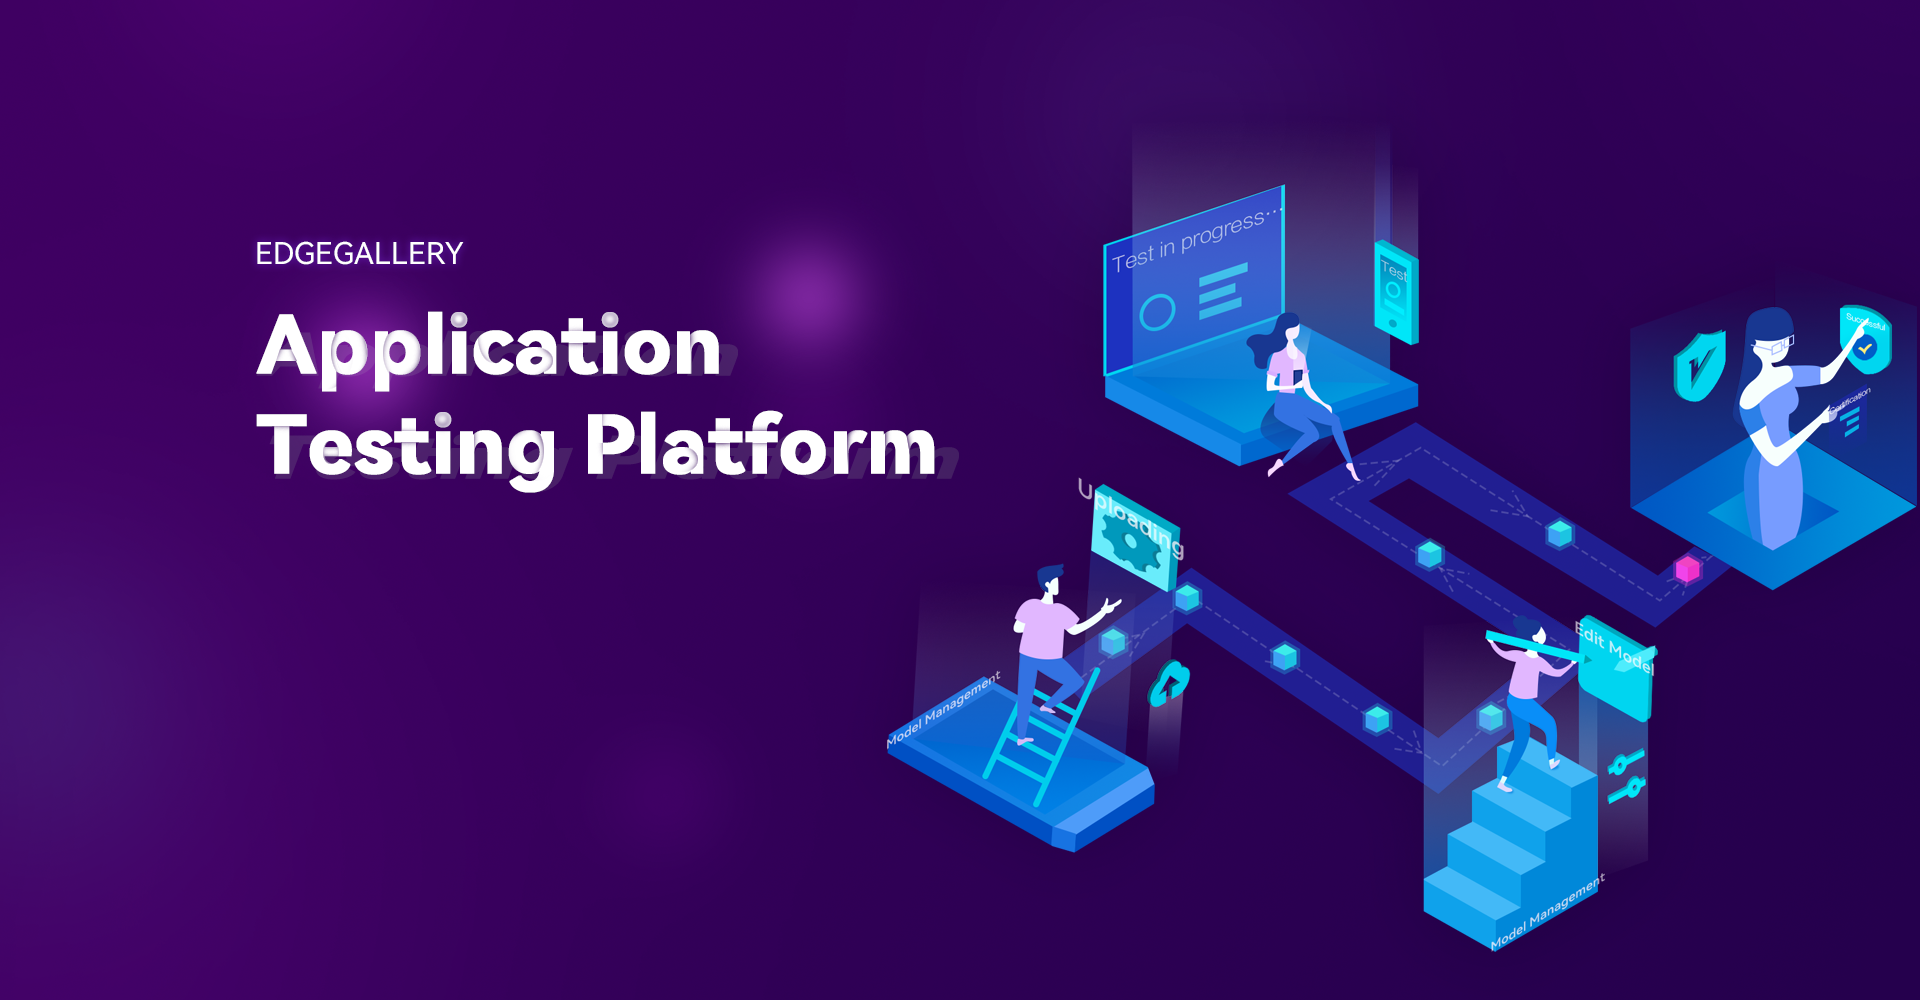
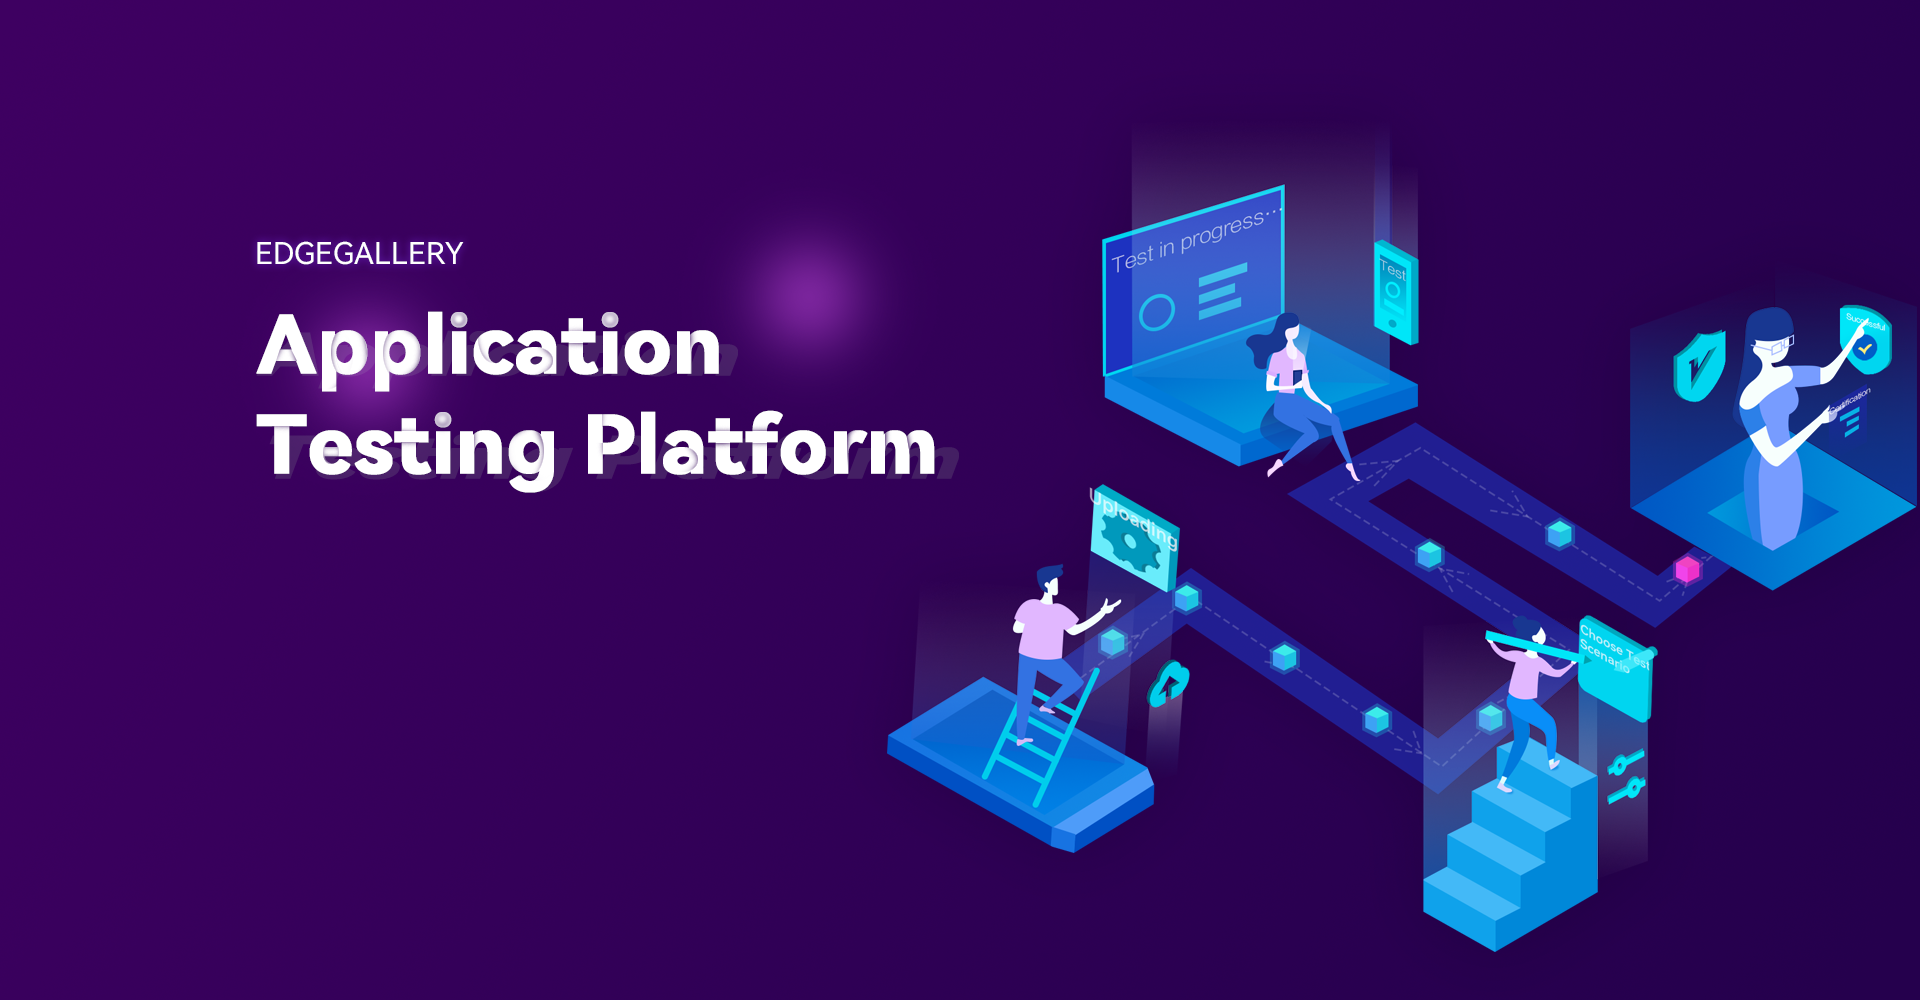
替换首页banner图，修改sonarqube静态告警。

diff --git a/src/pages/myApp/TestScenarios.vue b/src/pages/myApp/TestScenarios.vue
@@ -246,6 +246,7 @@
           v-if="addcaseForm.type==='script'"
           :label="$t('testCase.import')"
           prop="file"
+          ref="import"
         >
           <el-upload
             action=""
@@ -266,7 +267,7 @@
             </el-button>
             <el-tooltip
               style="margin-left:10px;"
-              content="用例脚本打包成zip包格式上传"
+              :content="$t('userpage.contentTip')"
               placement="right"
             >
               <em class="el-icon-question" />
@@ -515,20 +516,15 @@ export default {
               file: []
             }
           }).catch(() => {
-            this.addCaseVisible = false
-            this.addcaseForm = {
-              name: '',
-              objective: '',
-              step: '',
-              expectResult: '',
-              type: '',
-              file: []
-            }
+            this.cancelClose()
           })
         } else {
           return false
         }
       })
+      if (this.addcaseForm.file.length !== 0) {
+        this.$refs.import.clearValidate()
+      }
     },
     cancelClose () {
       this.addCaseVisible = false
@@ -548,6 +544,7 @@ export default {
     },
     handleChange (file, fileList) {
       this.addcaseForm.file.push(file.raw)
+      this.$refs.import.clearValidate()
     },
     handleDelte (file, fileList) {
       this.addcaseForm.file = fileList

diff --git a/src/pages/ModelMgmt/ScenariosManage.vue b/src/pages/ModelMgmt/ScenariosManage.vue
@@ -473,7 +473,7 @@ export default {
     return {
       editId: '',
       defaultIcon: [
-        require('../../assets/images/logo.png')
+        require('../../assets/images/defaulticon.png')
       ],
       scenarioIcon: [],
       uploadIcon: false,
@@ -529,7 +529,11 @@ export default {
   },
   methods: {
     getAppIcon (item) {
-      return URL_PREFIX + 'files/' + item.id + '?t=' + Math.random()
+      return URL_PREFIX + 'files/' + item.id + '?t=' + this.getDate()
+    },
+    getDate () {
+      let date = new Date()
+      return date.getSeconds()
     },
     hoverList (index) {
       this.activeInfo = index

diff --git a/src/locales/en.js b/src/locales/en.js
@@ -254,7 +254,8 @@ const en = {
     clickContribution: 'Click to contribute use case',
     choose: 'Please choose',
     failReason: 'Reasons for failure',
-    clickDownloadCase: 'Click to Download the Case'
+    clickDownloadCase: 'Click to Download the Case',
+    contentTip: 'The use case script is packaged into a zip package format and uploaded'
   },
   modelmgmt: {
     name: 'Name:',

diff --git a/src/components/common/Breadcrumb.vue b/src/components/common/Breadcrumb.vue
@@ -35,7 +35,6 @@
 </template>
 
 <script>
-// import { mapState } from 'vuex'
 export default {
   data () {
     return {
@@ -43,9 +42,6 @@ export default {
       isShow: false,
       language: localStorage.getItem('language')
     }
-  },
-  computed: {
-    // ...mapState(['language'])
   },
   watch: {
     $route (route) {

diff --git a/src/locales/cn.js b/src/locales/cn.js
@@ -253,7 +253,8 @@ const cn = {
     clickContribution: '点击贡献用例',
     choose: '请选择',
     failReason: '失败理由',
-    clickDownloadCase: '点击下载用例'
+    clickDownloadCase: '点击下载用例',
+    contentTip: '用例脚本打包成zip包格式上传'
   },
   modelmgmt: {
     name: '名称:',

diff --git a/src/App.vue b/src/App.vue
@@ -35,8 +35,7 @@ export default {
 
 <style lang="scss">
 #app {
-  // font-family: "Avenir", Helvetica, Arial, sans-serif;
-  font-family: Harmony-Regular;
+  font-family: Harmony-Regular, "Avenir", Helvetica, Arial, sans-serif;
   -webkit-font-smoothing: antialiased;
   -moz-osx-font-smoothing: grayscale;
   color: #2c3e50;

diff --git a/src/pages/ModelMgmt/SuitesManage.vue b/src/pages/ModelMgmt/SuitesManage.vue
@@ -869,7 +869,6 @@ export default {
           }
           .description{
             color: #5d6164;
-            text-overflow: -o-ellipsis-lastline;
             overflow: hidden;
             text-overflow: ellipsis;
             display: -webkit-box;

diff --git a/src/pages/home/TaskList.vue b/src/pages/home/TaskList.vue
@@ -35,6 +35,3 @@ export default {
   }
 }
 </script>
-<style lang="less">
-
-</style>

diff --git a/src/pages/myApp/testProcess.vue b/src/pages/myApp/testProcess.vue
@@ -29,6 +29,3 @@ export default {
   }
 }
 </script>
-<style lang="less">
-
-</style>
